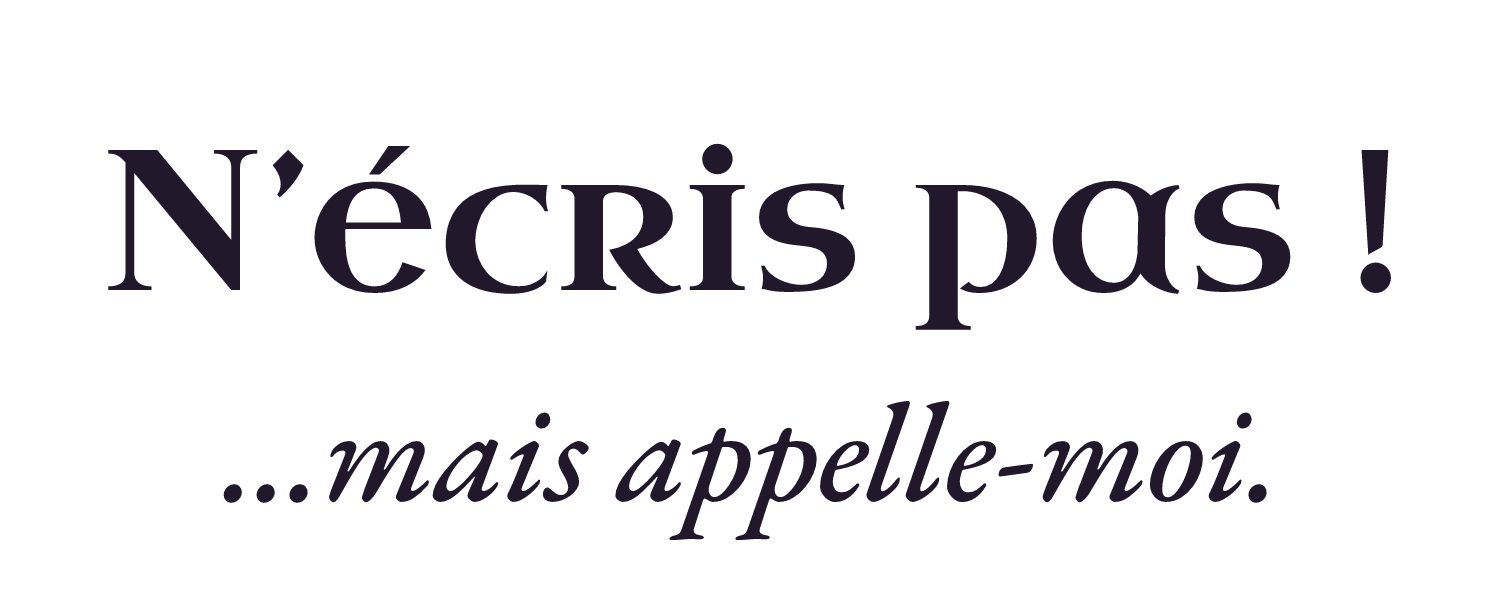
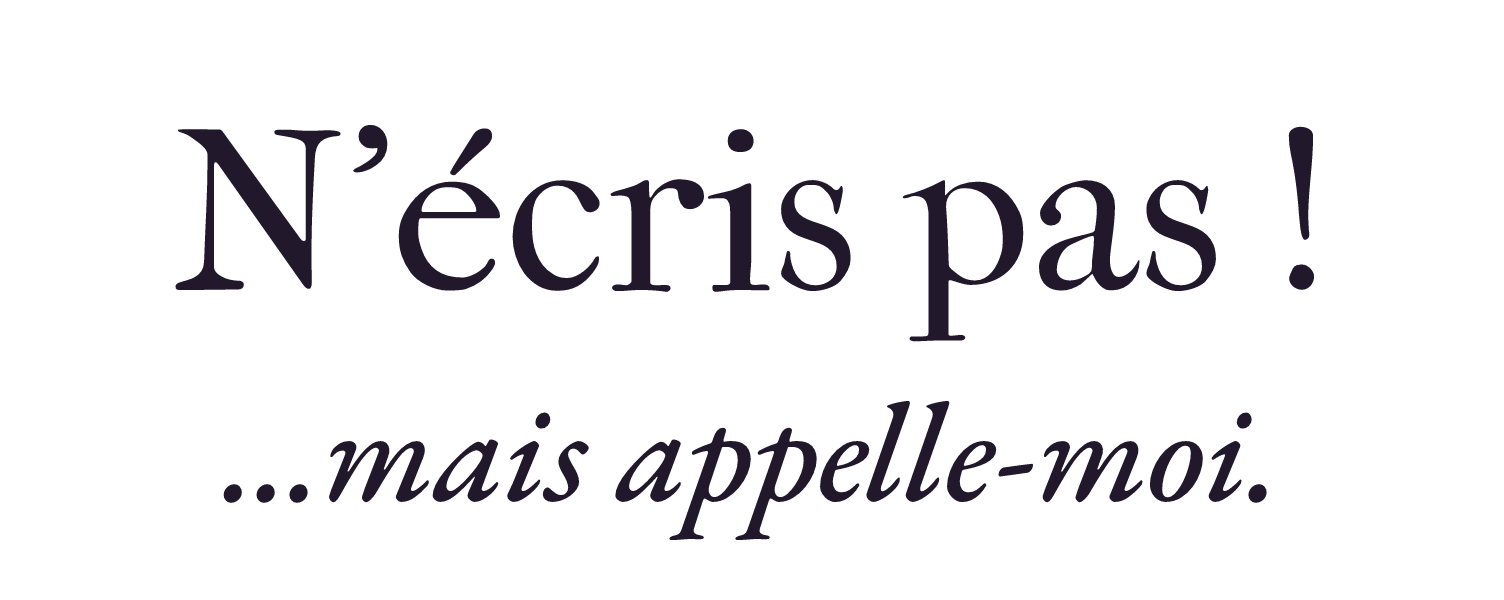
Les Séparés: French type, Monet at the centre, a sleeve postmark, warmer Plum (#44)
- "Far Fox", the inside label and the new postmark are set in IM Fell French
  Canon, a revival of 17th-century French type, in place of the Celtic Uncial
  Antiqua. Its thinner strokes get a heavier outline.
- Monet's Arrival of the Normandy Train, Gare Saint-Lazare is pinned to the
  sternum stripe under the wordmark and kept out of the random tiles.
- Each sleeve carries a postal cancellation: LONG DISTANCE FC / POSTE
  RESTANTE round a "Les Séparés · FAR FOX" centre, with cancel waves, in the
  colourway's ink.
- Plum's highlights are warmer and reach a little further, bringing back the
  sepia while keeping the picture stripes darker than the cream ones.
- Print files move to revision 4 for Printful.

Changed region(s): [[0.0625, 0.21, 0.5938, 0.51], [0.5938, 0.21, 0.875, 0.57], [0.9062, 0.24, 0.9375, 0.51]]

diff --git a/THIRD_PARTY_NOTICES.md b/THIRD_PARTY_NOTICES.md
@@ -28,11 +28,11 @@ This project includes third-party material under the licences below.
 
 ---
 
-## Fonts: Uncial Antiqua and EB Garamond
+## Fonts: IM Fell French Canon and EB Garamond
 
 - **Source:** Google Fonts, fetched at build time by `scripts/make-les-separes.mjs`
 - **Licence:** SIL Open Font License 1.1 (https://openfontlicense.org)
-- **Used in:** the "Far Fox" wordmark (Uncial Antiqua) and the poem and LDFC shield (EB Garamond), rendered into the Les Séparés print files. The fonts themselves are not redistributed.
+- **Used in:** the "Far Fox" wordmark, inside label and sleeve postmark (IM Fell French Canon, by Igino Marini after the Fell types) and the poem (EB Garamond), rendered into the Les Séparés print files. The fonts themselves are not redistributed.
 
 ---
 
